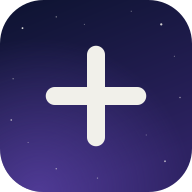
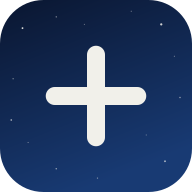
feat(web): nightly uses a deep blue plate and a share card without the NIGHTLY tag
The violet sky did not look like Chalk. Nightly keeps the stars and the mark
on a deep blue plate, and its share card drops the badge.

diff --git a/apps/web/scripts/brand-assets.ts b/apps/web/scripts/brand-assets.ts
@@ -55,12 +55,7 @@ function stars(width: number, height: number, fromX: number): string {
 /** What sits behind the mark, drawn in a `width` by `height` box. */
 function backdrop(channel: Channel, width: number, height: number, starsFromX = 0): string {
   if (channel === "production") return `<rect width="${width}" height="${height}" fill="${ICON_COLORS.plate}"/>`;
-  return [
-    `<defs><linearGradient id="sky" x1="0" y1="0" x2="0.4" y2="1"><stop offset="0" stop-color="#0d1330"/><stop offset="1" stop-color="#2d2262"/></linearGradient>`,
-    `<radialGradient id="glow" cx="0.2" cy="1" r="0.8"><stop offset="0" stop-color="#6d4fc2" stop-opacity="0.55"/><stop offset="1" stop-color="#6d4fc2" stop-opacity="0"/></radialGradient></defs>`,
-    `<rect width="${width}" height="${height}" fill="url(#sky)"/><rect width="${width}" height="${height}" fill="url(#glow)"/>`,
-    stars(width, height, starsFromX),
-  ].join("");
+  return [`<defs><linearGradient id="sky" x1="0" y1="0" x2="0.4" y2="1"><stop offset="0" stop-color="#0a1630"/><stop offset="1" stop-color="#183a73"/></linearGradient></defs>`, `<rect width="${width}" height="${height}" fill="url(#sky)"/>`, stars(width, height, starsFromX)].join("");
 }
 
 /** The mark centred in a box of `box` units, drawn in a `SIZE` square. */
@@ -87,15 +82,12 @@ function ogSvg(channel: Channel): string {
   const width = 1200;
   const height = 630;
   const background = channel === "production" ? `<rect width="${width}" height="${height}" fill="${OG_BACKGROUND}"/>` : backdrop(channel, width, height, 640);
-  const badge =
-    channel === "nightly" ? `<rect x="294" y="86" width="128" height="40" rx="20" fill="none" stroke="${OG_TEXT}" stroke-opacity="0.4"/><text x="358" y="113" text-anchor="middle" font-family="Figtree" font-weight="600" font-size="20" letter-spacing="3" fill="${OG_TEXT}">NIGHTLY</text>` : "";
   const mark = (x: number, y: number, side: number, opacity: number) => `<svg x="${x}" y="${y}" width="${side}" height="${side}" viewBox="0 0 ${MARK.viewBox} ${MARK.viewBox}" opacity="${opacity}">${markSvgBody(ICON_COLORS.mark)}</svg>`;
   return `<svg xmlns="http://www.w3.org/2000/svg" width="${width}" height="${height}" viewBox="0 0 ${width} ${height}">
 ${background}
 ${mark(780, 30, 600, 0.07)}
 ${mark(76, 70, 64, 1)}
 <text x="148" y="122" font-family="Figtree" font-weight="700" font-size="48" fill="${OG_TEXT}">chalk</text>
-${badge}
 <text x="80" y="370" font-family="Figtree" font-weight="700" font-size="72" letter-spacing="-1.5" fill="${OG_TEXT}">Calls for your team,</text>
 <text x="80" y="454" font-family="Figtree" font-weight="700" font-size="72" letter-spacing="-1.5" fill="${OG_TEXT}">and inside your product.</text>
 <text x="80" y="540" font-family="Figtree" font-weight="400" font-size="30" fill="${OG_MUTED}">Open source for web, iOS and Android.</text>
